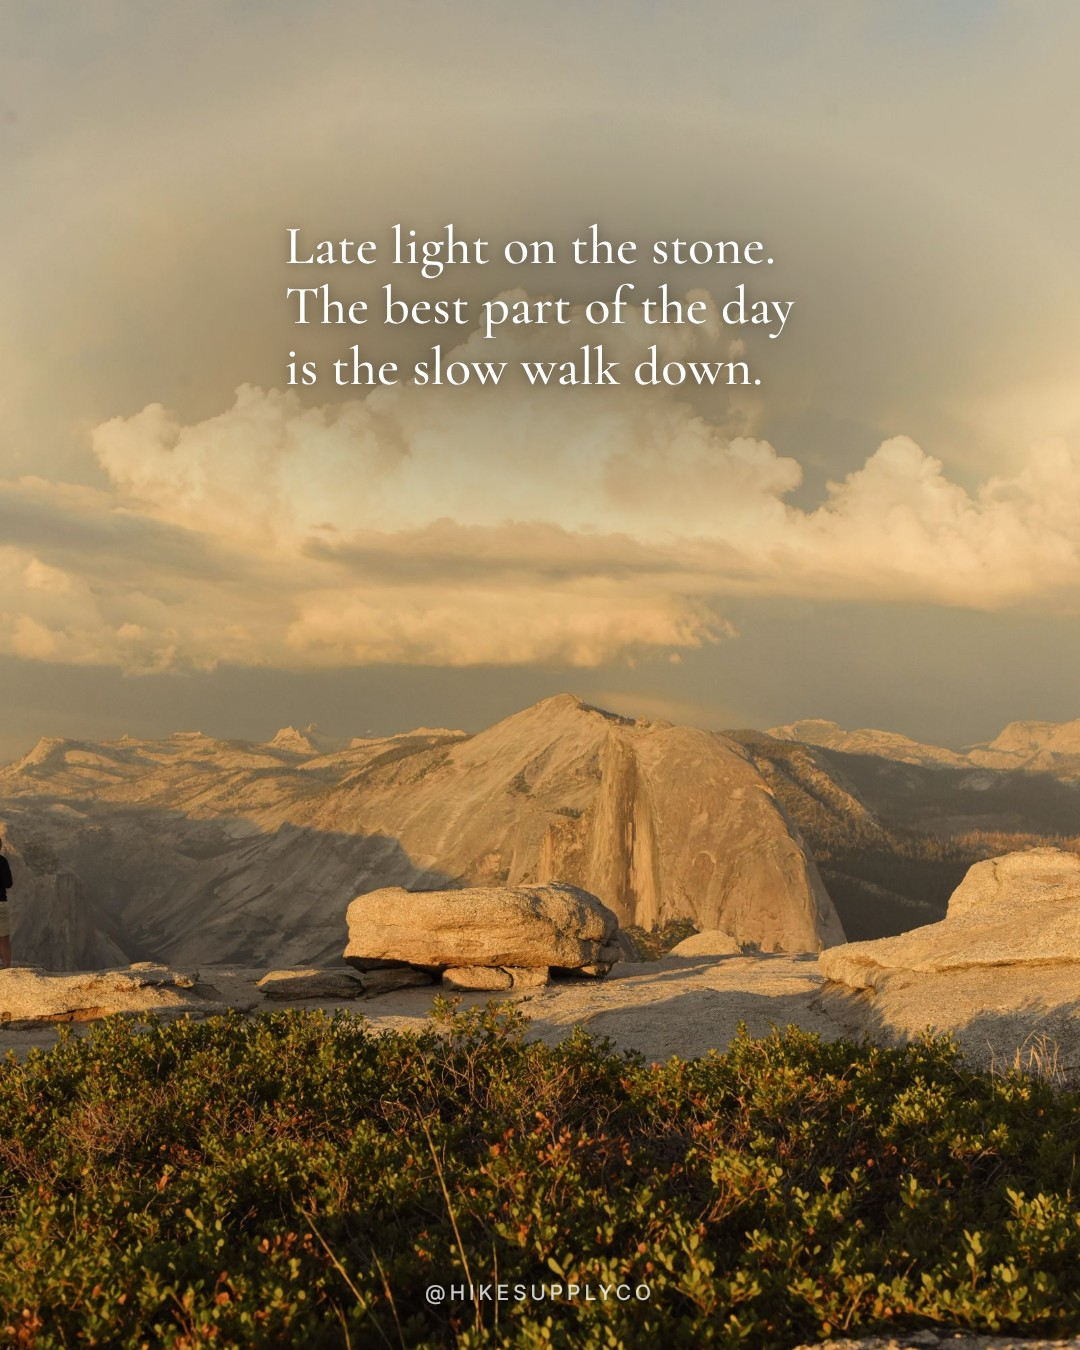
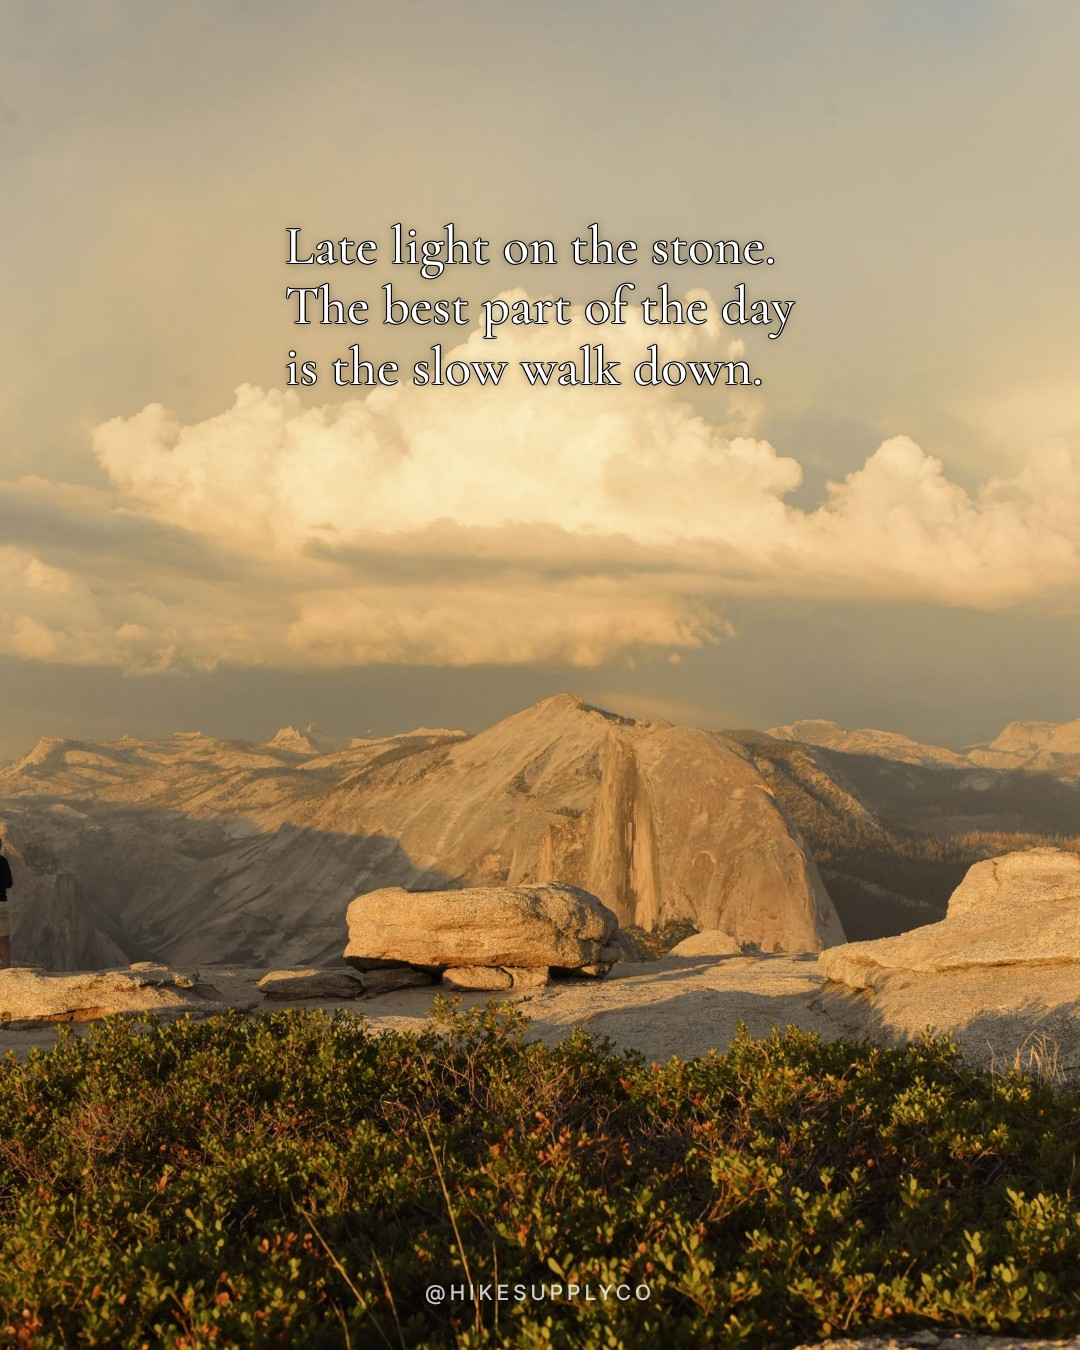
moods mw2026-11-02: no grey veil, thin dark outline on light skies (Vasil's note)
Claude-Session: https://claude.ai/code/session_01G77JpVjgmXei49xSix3DqN

Changed region(s): [[0.1222, 0.1244, 0.8861, 0.4044]]

diff --git a/moods/render_mood.py b/moods/render_mood.py
@@ -31,17 +31,22 @@ def page(p, w, h, top, light=100):
     q = "<br>".join(html.escape(x) for x in p["quote"].split("\n"))
     a = f'<div class="by">{html.escape(p["author"])}</div>' if p.get("author") else ""
     fs = round(w * 0.05)
+    # No dark veil behind the text (Vasil 2026-10-26: it looked like grey clouds).
+    # On light skies the letters get a thin dark outline instead.
+    k = min(1, max(0, (light - 105) / 90))
+    import math
+    r = max(1.2, fs * 0.022); al = 0.25 + 0.25 * k
+    stroke = ", ".join(f"{r*math.cos(t*math.pi/8):.2f}px {r*math.sin(t*math.pi/8):.2f}px 0.6px rgba(0,0,0,{al:.2f})" for t in range(16)) + ", " if light > 105 else ""
     return f"""<html><head><meta charset=utf-8><style>
 @font-face {{ font-family: C; src: url(file://{ROOT}/moods/Cormorant-500.woff2); font-weight: 500; }}
 @font-face {{ font-family: I; src: url(file://{ROOT}/pins/Inter.ttf); font-weight: 100 900; }}
 * {{ margin: 0; box-sizing: border-box; }}
 body {{ width: {w}px; height: {h}px; overflow: hidden; background: #111 url(file://{os.path.join(ROOT, p['photo'])}) center/cover no-repeat; position: relative; }}
-.veil {{ position: absolute; left: 0; right: 0; top: {top*100 - 8}%; height: 36%; background: radial-gradient(ellipse at 50% 50%, rgba(0,0,0,{0.22 + max(0, (light - 110) / 145) * 0.38:.2f}), rgba(0,0,0,0) 72%); }}
 .q {{ position: absolute; left: 0; right: 0; top: {top*100}%; display: flex; justify-content: center; }}
-.q div {{ font: 500 {fs}px/1.12 C, serif; color: #fff; letter-spacing: .2px; text-shadow: 0 1px 14px rgba(0,0,0,{0.35 + max(0, (light - 110) / 145) * 0.3:.2f}); max-width: {int(w*.78)}px; }}
+.q div {{ font: 500 {fs}px/1.12 C, serif; color: #fff; letter-spacing: .2px; text-shadow: {stroke}0 1px 10px rgba(0,0,0,{0.3 + min(1, max(0, (light - 100) / 120)) * 0.25:.2f}); max-width: {int(w*.78)}px; }}
 .by {{ font: 500 {round(fs*.42)}px/1 I, sans-serif; letter-spacing: 3px; text-transform: uppercase; color: rgba(255,255,255,.85); margin-top: {round(fs*.5)}px; text-shadow: 0 1px 8px rgba(0,0,0,.4); }}
 .h {{ position: absolute; left: 0; right: 0; bottom: {round(h*.035)}px; text-align: center; font: 500 {round(w*.019)}px/1 I, sans-serif; letter-spacing: 4px; color: rgba(255,255,255,.78); text-shadow: 0 1px 8px rgba(0,0,0,.5); }}
-</style></head><body><div class="veil"></div><div class="q"><div>{q}{a}</div></div><div class="h">@HIKESUPPLYCO</div></body></html>"""
+</style></head><body><div class="q"><div>{q}{a}</div></div><div class="h">@HIKESUPPLYCO</div></body></html>"""
 
 batch = json.load(open(sys.argv[1]))
 os.makedirs(os.path.join(ROOT, "media", "moods"), exist_ok=True)
